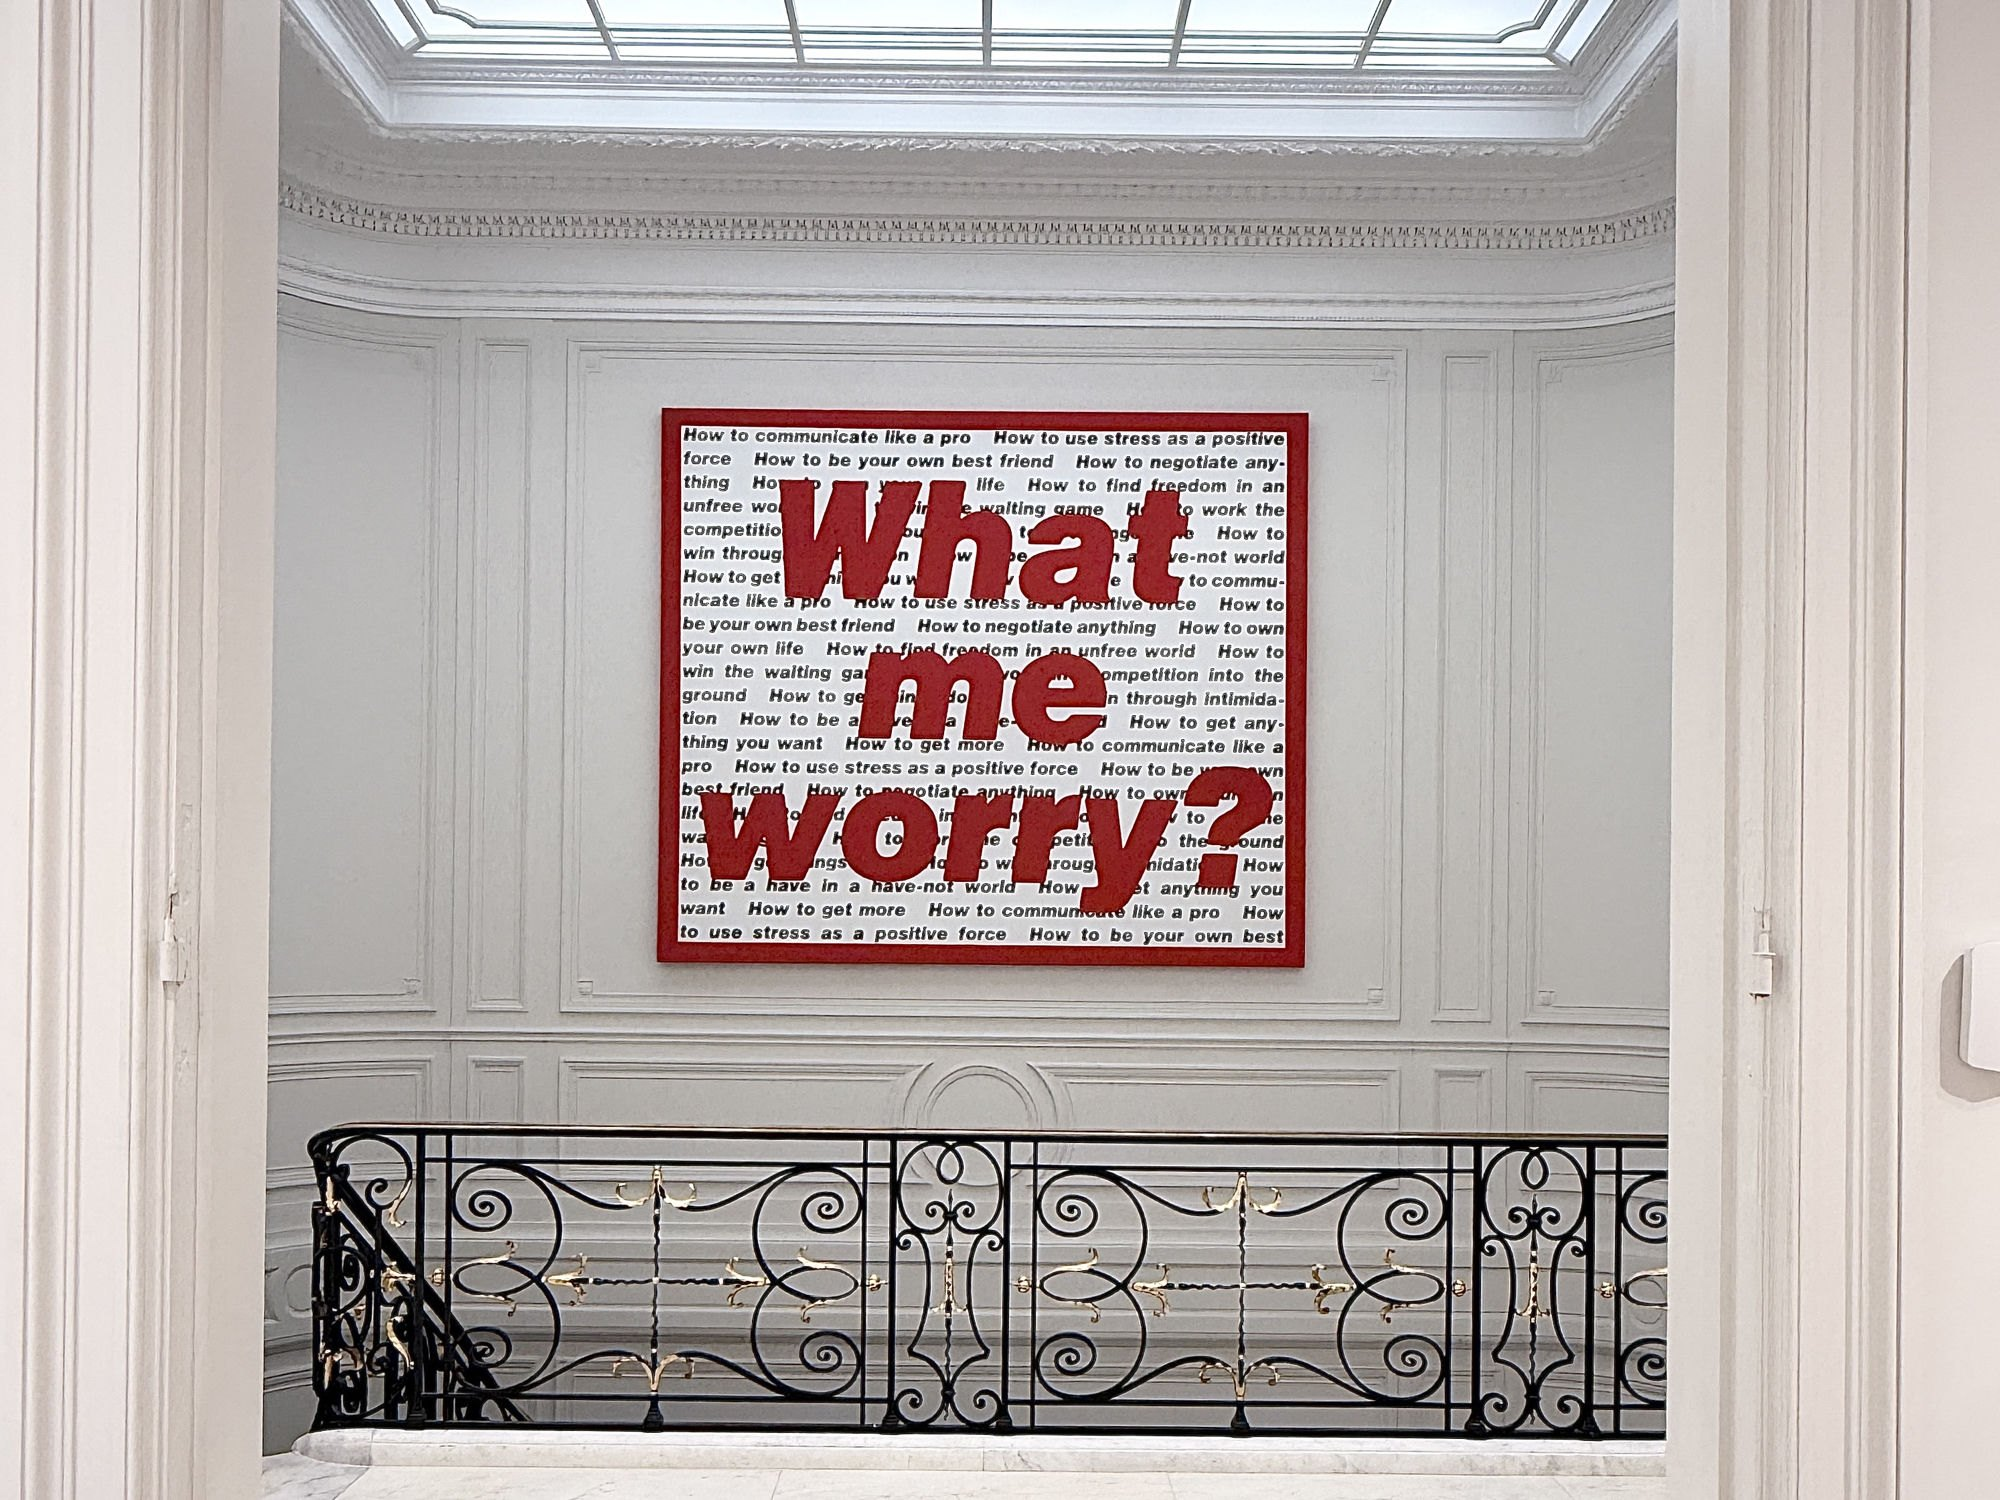
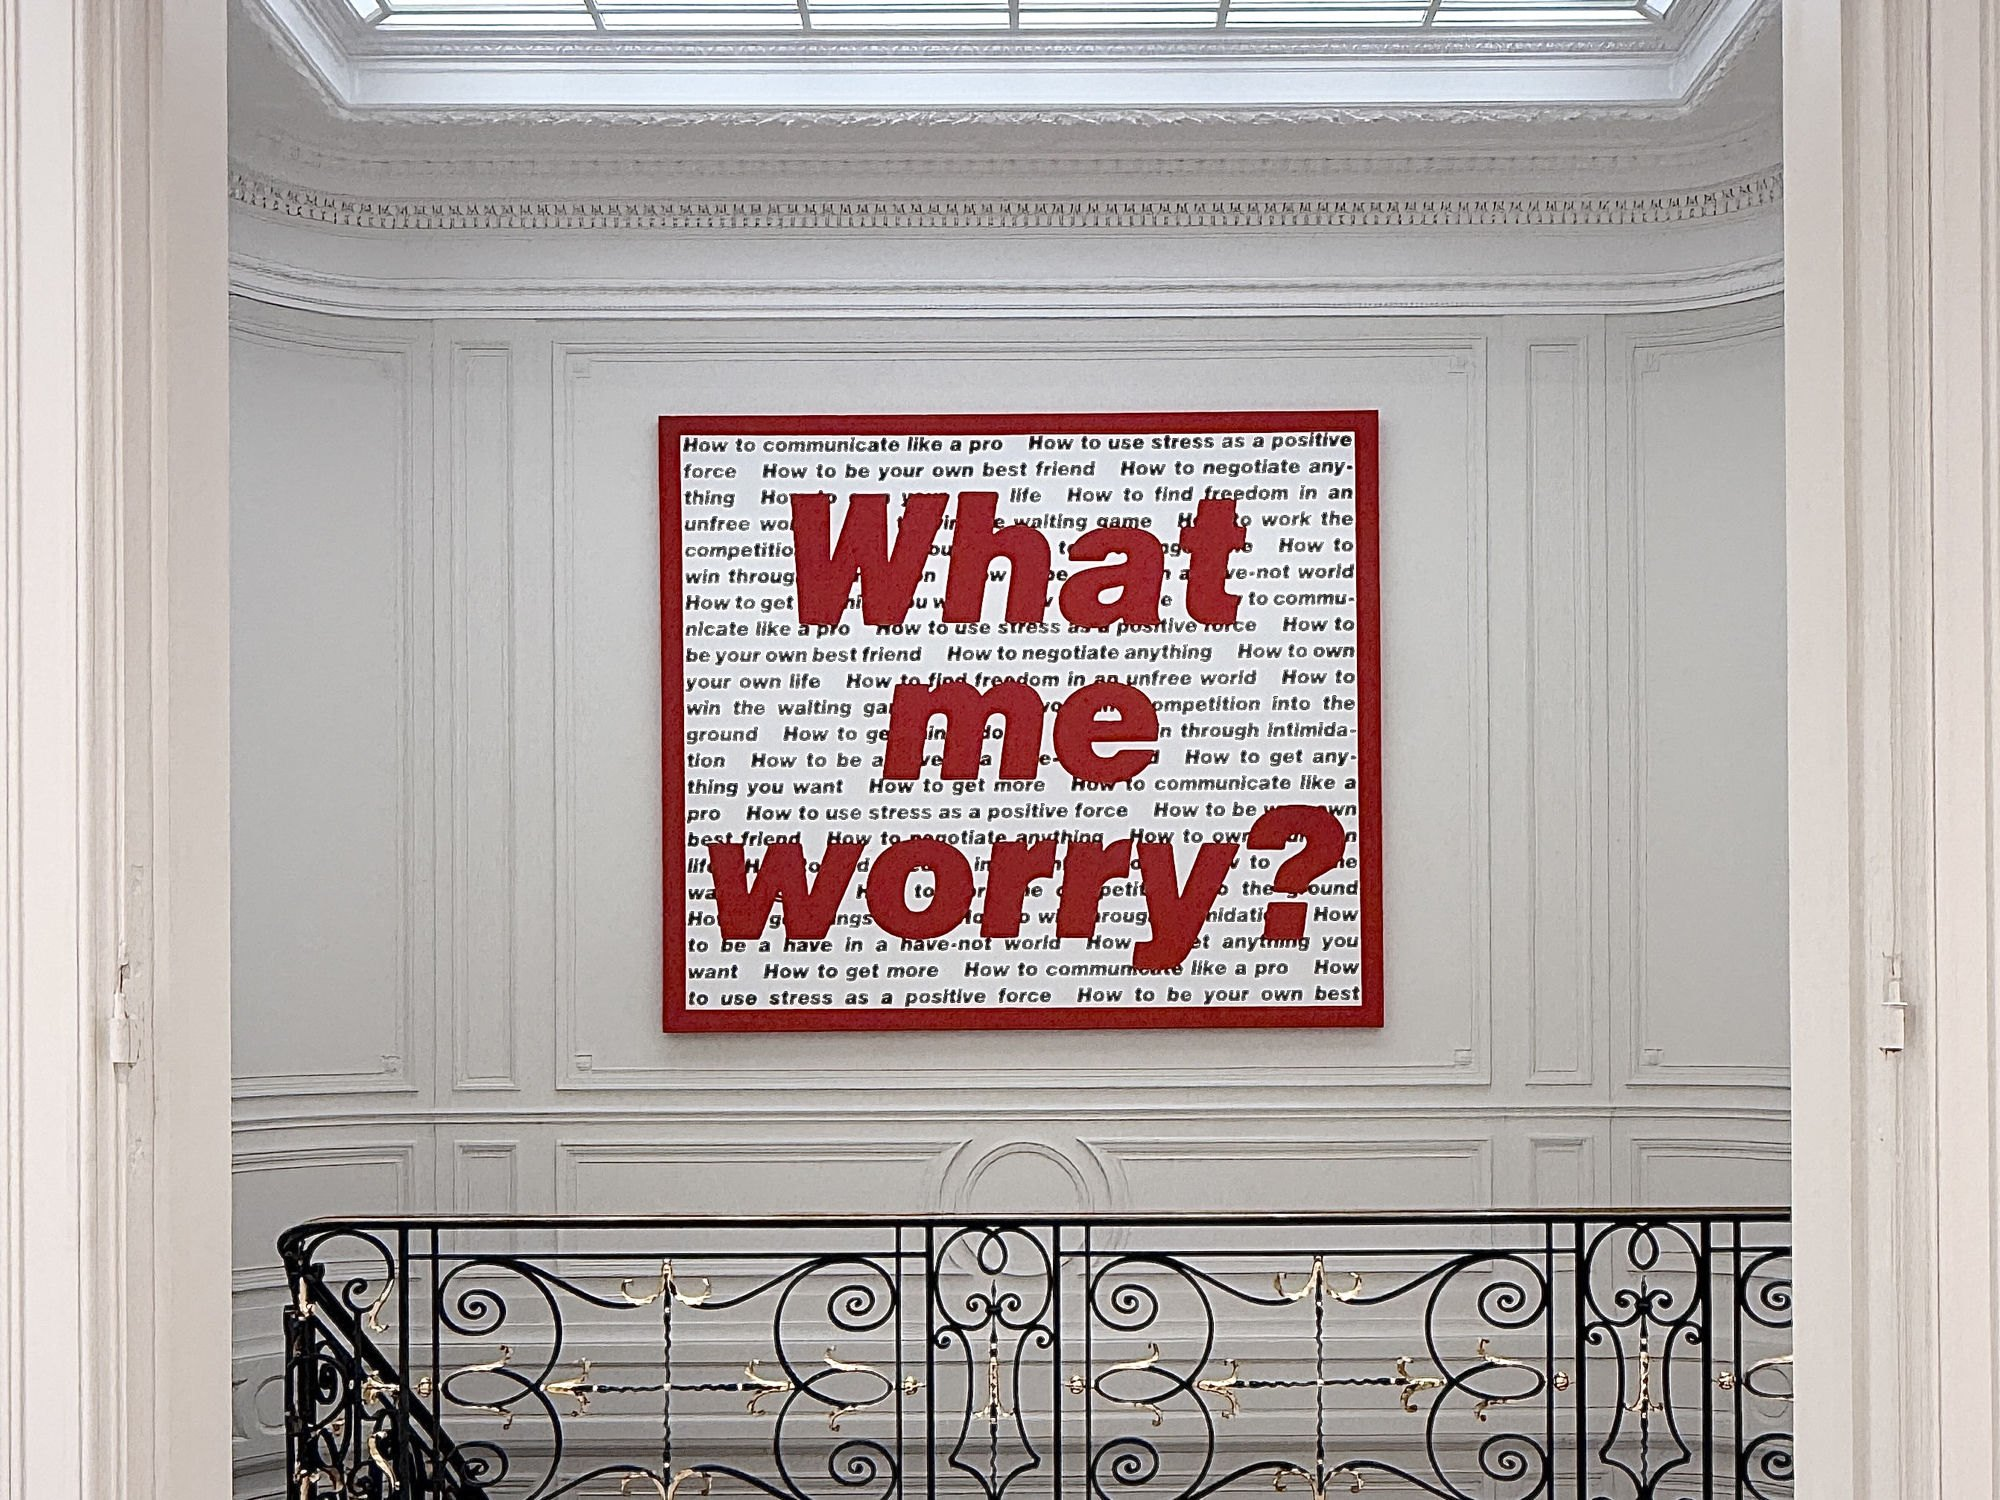
Contact hero: use client-chosen photo, artwork clear of the nav on PC and mobile

diff --git a/contact.html b/contact.html
@@ -9,7 +9,7 @@
 <link rel="preconnect" href="https://fonts.googleapis.com">
 <link rel="preconnect" href="https://fonts.gstatic.com" crossorigin>
 <link href="https://fonts.googleapis.com/css2?family=Cormorant+Garamond:ital,wght@0,300;0,400;0,500;1,300&family=Inter:wght@300;400;500&family=Noto+Sans+JP:wght@300;400;500&family=Noto+Serif+JP:wght@300;400;500&display=swap" rel="stylesheet">
-<link rel="stylesheet" href="styles.css?v=20260826s">
+<link rel="stylesheet" href="styles.css?v=20260826t">
 </head>
 <body>
 
@@ -43,7 +43,7 @@
 </header>
 
 <!-- ===== Page Hero ===== -->
-<section class="page-hero hero-pos-contact" style="--hero-ar:1.333; background-image:url('images/hero-contact.jpg?v=0826s')">
+<section class="page-hero hero-pos-contact" style="--hero-ar:1.333; background-image:url('images/hero-contact.jpg?v=0826t')">
   <div class="page-hero-overlay"></div>
   <div class="page-hero-inner container">
     <h1 class="page-hero-title">
@@ -152,6 +152,6 @@
   </div>
 </footer>
 
-<script src="script.js?v=20260826s"></script>
+<script src="script.js?v=20260826t"></script>
 </body>
 </html>

diff --git a/about.html b/about.html
@@ -9,7 +9,7 @@
 <link rel="preconnect" href="https://fonts.googleapis.com">
 <link rel="preconnect" href="https://fonts.gstatic.com" crossorigin>
 <link href="https://fonts.googleapis.com/css2?family=Cormorant+Garamond:ital,wght@0,300;0,400;0,500;1,300&family=Inter:wght@300;400;500&family=Noto+Sans+JP:wght@300;400;500&family=Noto+Serif+JP:wght@300;400;500&display=swap" rel="stylesheet">
-<link rel="stylesheet" href="styles.css?v=20260826s">
+<link rel="stylesheet" href="styles.css?v=20260826t">
 </head>
 <body>
 
@@ -170,7 +170,7 @@
       </div>
 
       <div class="profile-image">
-        <img src="images/about-profile.jpg?v=20260826s" alt="">
+        <img src="images/about-profile.jpg?v=20260826t" alt="">
       </div>
     </div>
   </div>
@@ -194,6 +194,6 @@
   </div>
 </footer>
 
-<script src="script.js?v=20260826s"></script>
+<script src="script.js?v=20260826t"></script>
 </body>
 </html>

diff --git a/index.html b/index.html
@@ -9,7 +9,7 @@
 <link rel="preconnect" href="https://fonts.googleapis.com">
 <link rel="preconnect" href="https://fonts.gstatic.com" crossorigin>
 <link href="https://fonts.googleapis.com/css2?family=Cormorant+Garamond:ital,wght@0,300;0,400;0,500;1,300&family=Inter:wght@300;400;500&family=Noto+Sans+JP:wght@300;400;500&family=Noto+Serif+JP:wght@300;400;500&display=swap" rel="stylesheet">
-<link rel="stylesheet" href="styles.css?v=20260826s">
+<link rel="stylesheet" href="styles.css?v=20260826t">
 </head>
 <body>
 
@@ -192,7 +192,7 @@
   </div>
 </footer>
 
-<script src="script.js?v=20260826s"></script>
+<script src="script.js?v=20260826t"></script>
 
 <!-- Instagram連携 (Behold JSONフィード): 最新投稿でタイルを差し替え。
      取得失敗・0件（例: コラボ投稿はAPI対象外）の間は上の静的タイルを表示 -->

diff --git a/404.html b/404.html
@@ -8,7 +8,7 @@
 <link rel="preconnect" href="https://fonts.googleapis.com">
 <link rel="preconnect" href="https://fonts.gstatic.com" crossorigin>
 <link href="https://fonts.googleapis.com/css2?family=Cormorant+Garamond:ital,wght@0,300;0,400;0,500;1,300&family=Inter:wght@300;400;500&family=Noto+Sans+JP:wght@300;400;500&family=Noto+Serif+JP:wght@300;400;500&display=swap" rel="stylesheet">
-<link rel="stylesheet" href="/styles.css?v=20260826s">
+<link rel="stylesheet" href="/styles.css?v=20260826t">
 </head>
 <body>
 
@@ -85,6 +85,6 @@
   </div>
 </footer>
 
-<script src="/script.js?v=20260826s"></script>
+<script src="/script.js?v=20260826t"></script>
 </body>
 </html>

diff --git a/calendar.html b/calendar.html
@@ -9,7 +9,7 @@
 <link rel="preconnect" href="https://fonts.googleapis.com">
 <link rel="preconnect" href="https://fonts.gstatic.com" crossorigin>
 <link href="https://fonts.googleapis.com/css2?family=Cormorant+Garamond:ital,wght@0,300;0,400;0,500;1,300&family=Inter:wght@300;400;500&family=Noto+Sans+JP:wght@300;400;500&family=Noto+Serif+JP:wght@300;400;500&display=swap" rel="stylesheet">
-<link rel="stylesheet" href="styles.css?v=20260826s">
+<link rel="stylesheet" href="styles.css?v=20260826t">
 </head>
 <body>
 
@@ -254,6 +254,6 @@
   </div>
 </footer>
 
-<script src="script.js?v=20260826s"></script>
+<script src="script.js?v=20260826t"></script>
 </body>
 </html>

diff --git a/services.html b/services.html
@@ -9,7 +9,7 @@
 <link rel="preconnect" href="https://fonts.googleapis.com">
 <link rel="preconnect" href="https://fonts.gstatic.com" crossorigin>
 <link href="https://fonts.googleapis.com/css2?family=Cormorant+Garamond:ital,wght@0,300;0,400;0,500;1,300&family=Inter:wght@300;400;500&family=Noto+Sans+JP:wght@300;400;500&family=Noto+Serif+JP:wght@300;400;500&display=swap" rel="stylesheet">
-<link rel="stylesheet" href="styles.css?v=20260826s">
+<link rel="stylesheet" href="styles.css?v=20260826t">
 </head>
 <body>
 
@@ -208,6 +208,6 @@
   </div>
 </footer>
 
-<script src="script.js?v=20260826s"></script>
+<script src="script.js?v=20260826t"></script>
 </body>
 </html>

diff --git a/journal.html b/journal.html
@@ -9,7 +9,7 @@
 <link rel="preconnect" href="https://fonts.googleapis.com">
 <link rel="preconnect" href="https://fonts.gstatic.com" crossorigin>
 <link href="https://fonts.googleapis.com/css2?family=Cormorant+Garamond:ital,wght@0,300;0,400;0,500;1,300&family=Inter:wght@300;400;500&family=Noto+Sans+JP:wght@300;400;500&family=Noto+Serif+JP:wght@300;400;500&display=swap" rel="stylesheet">
-<link rel="stylesheet" href="styles.css?v=20260826s">
+<link rel="stylesheet" href="styles.css?v=20260826t">
 </head>
 <body>
 
@@ -93,6 +93,6 @@
   </div>
 </footer>
 
-<script src="script.js?v=20260826s"></script>
+<script src="script.js?v=20260826t"></script>
 </body>
 </html>

diff --git a/styles.css b/styles.css
@@ -887,7 +887,7 @@ body {
   padding: 160px 0 64px;
 }
 /* Contact: 高さ上限(85svh)で上下が切れる際、作品「What me worry?」が帯の中央に来る位置 */
-.page-hero.hero-pos-contact { background-position: center 12%; }
+.page-hero.hero-pos-contact { background-position: center 30%; }
 .page-hero-overlay {
   position: absolute;
   inset: 0;
